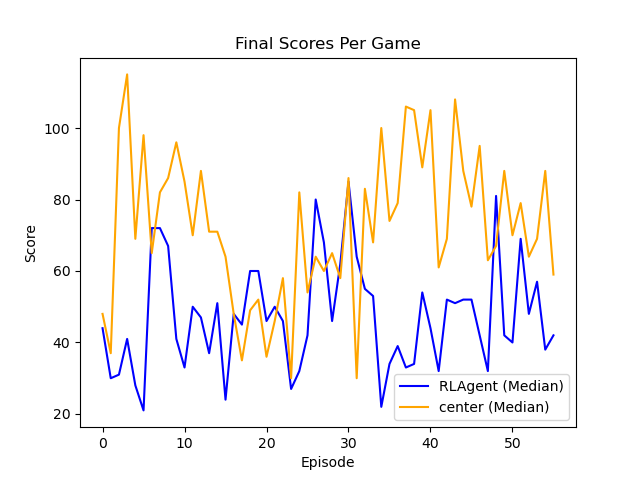
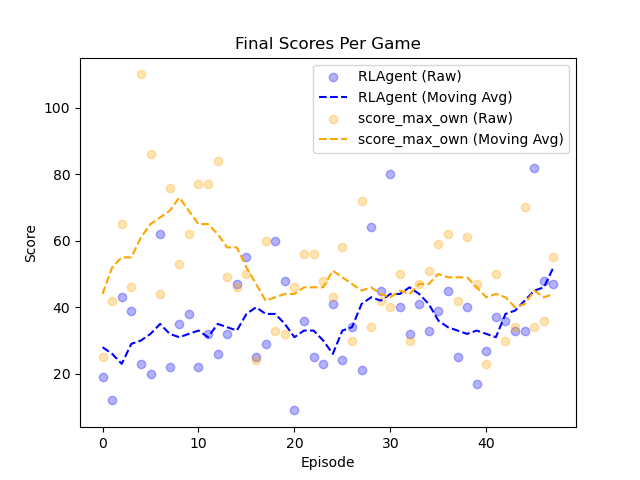
randomized training order among batches and improved plotting

diff --git a/games/helper_plotting.py b/games/helper_plotting.py
@@ -14,7 +14,8 @@ import torch
 import torch.nn as nn
 import os
 import pandas as pd
-import ast
+from scipy.ndimage import uniform_filter1d
+#from sklearn.linear_model import LinearRegression
 
 from wingedsheep.carcassonne.utils.points_collector import *
 
@@ -437,30 +438,37 @@ def plot_network(model, input_data=None, output_label="t",
     plt.tight_layout()
     return fig, ax
 
-def plot_stats(output_dir, labels, data_arr, title, ylabel, filename):
-    """
-    Plots the median line with a shaded confidence interval (25th–75th percentile).
-    """
-    #print(data_arr)
+def plot_stats(output_dir, labels, data_arr, title, ylabel, filename, N_CORES=4):
     data_arr = np.stack(data_arr)
-    #print(data_arr.shape)
-    #median = np.median(data_arr, axis=1)
-    #q25 = np.percentile(data_arr, 25, axis=1)
-    #q75 = np.percentile(data_arr, 75, axis=1)
-    #episodes = range(data_arr.shape[0])
+    episodes = np.arange(data_arr.shape[0])
     
     plt.figure()
+
     for p in range(2):
         name = labels[p]['name']
-        #print(data_arr[:,p])
-        plt.plot(data_arr[:,p], label=f"{name} (Median)", color=labels[p]["color"])
-        #plt.plot(median[:,p], label=f"{name} (Median)", color=labels[p]["color"])
-        #plt.fill_between(episodes, q25[:,p], q75[:,p], color=labels[p]["color"], alpha=0.2, label='25th-75th percentile')
+        color = labels[p]["color"]
+
+        # Scatter plot of raw data
+        plt.scatter(episodes, data_arr[:, p], label=f"{name} (Raw)", color=color, alpha=0.3)
+
+        # Moving average
+        mov_avg = uniform_filter1d(data_arr[:, p], size=N_CORES)
+        plt.plot(episodes, mov_avg, label=f"{name} (Moving Avg)", color=color, linestyle='--')
+
+    # Linear regression for player 0
+    #x = episodes.reshape(-1, 1)
+    #y0 = data_arr[:, 0]
+    #linreg = LinearRegression().fit(x, y0)
+    #y_pred = linreg.predict(x)
+    #plt.plot(episodes, y_pred, color="black", linestyle=':', label=f"{labels[0]['name']} (Linear Fit, m={linreg.coef_[0]:.2f})")
+
+    # Final touches
     plt.title(title)
     plt.xlabel('Episode')
     plt.ylabel(ylabel)
+    if ylabel.lower() == 'loss':
+        plt.yscale('log')    
     plt.legend()
-    #plt.grid(True)
     os.makedirs(os.path.join(output_dir, 'fig'), exist_ok=True)
     plt.savefig(os.path.join(output_dir, 'fig', filename))
     plt.close()

diff --git a/games/helper.py b/games/helper.py
@@ -444,10 +444,11 @@ def copy_game(original_game):
 
 def training_plan(game_idx):
     
+    # base training policy
     policy_algo_init='identity' # None, identity, score_max_own, score_max_gap, score_max_potential_own, score_max_potential_gap
-    epsilon=0.05 # % chance of doing random exploration move
+    epsilon=0.0 # % chance of doing random exploration move
     gamma = 0.95 # future rewards discount rates
-    learning_rate = 1e-5 # 1e-3 to 1e-5
+    learning_rate = 1e-6 # 1e-3 to 1e-5
     end_game=   25.0 # weight to last move and total game result
     s=          0.4 # current score
     s_diff=     0.2 # score increase wrt to last turn
@@ -462,6 +463,22 @@ def training_plan(game_idx):
         'epsilon':epsilon, # % random moves for exploration
         'gamma':gamma, # discount rate, high=future rewards matter
         'learning_rate':learning_rate,
-        'reward_weights':reward_weights
+        'reward_weights':reward_weights,
+        'opponent': None
     }
+    
+    # change opponent difficulty with time:
+    if True: # toggle this
+        if game_idx<64:
+            param_dict['opponent']='score_max_own'
+        elif game_idx<256:
+            param_dict['opponent']='score_max_potential_own'
+        elif game_idx<1024:
+            param_dict['opponent']='score_max_potential_gap'
+
+    # exception to inspect current state
+    if game_idx==1:
+        param_dict['epsilon']=0
+        param_dict['learning_rate']=0
+        
     return param_dict

diff --git a/games/two_player_game.py b/games/two_player_game.py
@@ -53,6 +53,8 @@ def two_player_game(
     gamma=param_dict['gamma']
     reward_weights=param_dict['reward_weights']
     learning_rate=param_dict['learning_rate']
+    if param_dict['opponent'] is not None:
+        p1 = param_dict['opponent']
     
     # make constants and init array
     subtile_dict = construct_subtile_dict(do_norm=True)
@@ -261,10 +263,10 @@ if __name__ == '__main__':
             board_size=15,
             max_turn=500,
             p0="RLAgent", # RLAgent
-            p1="RLAgent",
+            p1="center",
             do_plot=True,
             do_train=True,
             do_update_agent=True,
             do_save=False, # so we can tune learning rate and weights without messing up the model
-            game_idx=0 # set no >0 to use settings from training plan
+            game_idx=1 # set no >0 to use settings from training plan
         )
